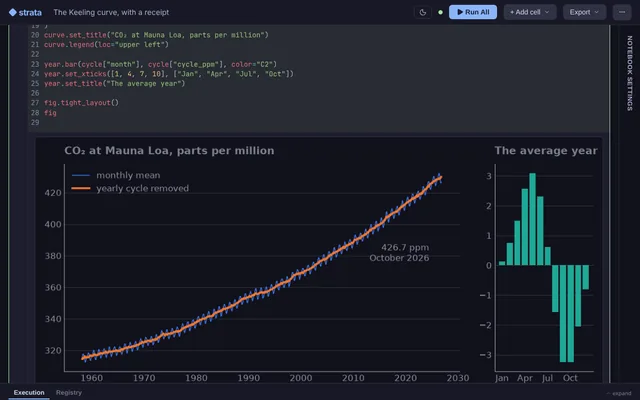
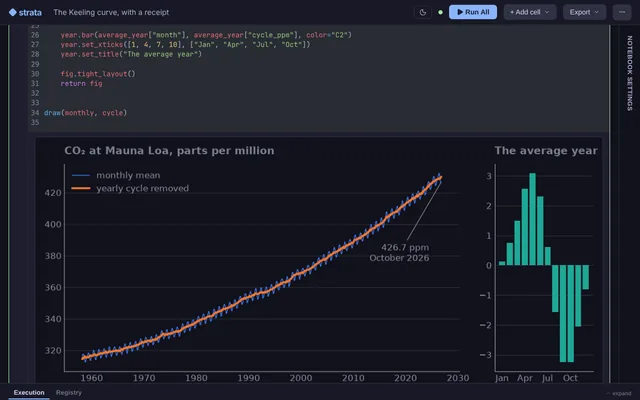
fix(examples): the Keeling receipt works in a sample copy, and review fixes
- The publish command named the example's own notebook id, but a sample copy
  gets a new one, so the command failed in every copy opened with strata
  tutorial or Open a sample. The cell now says the id is built from the
  notebook's notebook_id and where the folder is listed.
- The plot cell draws in a function, so the run stores only the figure and no
  longer warns that fig and its axes share objects.
- Growth per decade says how many years each decade holds (the 2020s has 6).
- NOAA rewrites the file about once a month; the cell no longer says early in
  the month, nor that a year joins in December.
- Alt text says the picture is the notebook; the CHANGELOG says second in the
  walkthroughs; docs/changelog.md mirrors the entry.

Claude-Session: https://claude.ai/code/session_0153tGTDWfzB9aBrCNiSAYQ5

Changed region(s): [[0.0625, 0.06, 0.5312, 0.3]]

diff --git a/examples/keeling_curve/cells/plot.py b/examples/keeling_curve/cells/plot.py
@@ -3,26 +3,32 @@ import matplotlib.pyplot as plt
 
 plt.style.use("strata")
 
-fig, (curve, year) = plt.subplots(
-    1, 2, figsize=(10, 4.5), gridspec_kw={"width_ratios": [4, 1]}
-)
 
-curve.plot(monthly["date"], monthly["co2_ppm"], linewidth=1, label="monthly mean")
-curve.plot(monthly["date"], monthly["trend_ppm"], linewidth=2.5, label="yearly cycle removed")
-latest = monthly.iloc[-1]
-curve.annotate(
-    f"{latest['co2_ppm']:.1f} ppm\n{latest['date']:%B %Y}",
-    (latest["date"], latest["co2_ppm"]),
-    xytext=(-15, -100),
-    textcoords="offset points",
-    ha="right",
-)
-curve.set_title("CO₂ at Mauna Loa, parts per million")
-curve.legend(loc="upper left")
+def draw(record, average_year):
+    fig, (curve, year) = plt.subplots(
+        1, 2, figsize=(10, 4.5), gridspec_kw={"width_ratios": [4, 1]}
+    )
 
-year.bar(cycle["month"], cycle["cycle_ppm"], color="C2")
-year.set_xticks([1, 4, 7, 10], ["Jan", "Apr", "Jul", "Oct"])
-year.set_title("The average year")
+    curve.plot(record["date"], record["co2_ppm"], linewidth=1, label="monthly mean")
+    curve.plot(record["date"], record["trend_ppm"], linewidth=2.5, label="yearly cycle removed")
+    latest = record.iloc[-1]
+    curve.annotate(
+        f"{latest['co2_ppm']:.1f} ppm\n{latest['date']:%B %Y}",
+        (latest["date"], latest["co2_ppm"]),
+        xytext=(-15, -100),
+        textcoords="offset points",
+        ha="right",
+        arrowprops={"arrowstyle": "-", "color": "0.6", "linewidth": 0.8},
+    )
+    curve.set_title("CO₂ at Mauna Loa, parts per million")
+    curve.legend(loc="upper left")
 
-fig.tight_layout()
-fig
+    year.bar(average_year["month"], average_year["cycle_ppm"], color="C2")
+    year.set_xticks([1, 4, 7, 10], ["Jan", "Apr", "Jul", "Oct"])
+    year.set_title("The average year")
+
+    fig.tight_layout()
+    return fig
+
+
+draw(monthly, cycle)

diff --git a/src/strata/notebook/samples/keeling_curve/cells/plot.py b/src/strata/notebook/samples/keeling_curve/cells/plot.py
@@ -3,26 +3,32 @@ import matplotlib.pyplot as plt
 
 plt.style.use("strata")
 
-fig, (curve, year) = plt.subplots(
-    1, 2, figsize=(10, 4.5), gridspec_kw={"width_ratios": [4, 1]}
-)
 
-curve.plot(monthly["date"], monthly["co2_ppm"], linewidth=1, label="monthly mean")
-curve.plot(monthly["date"], monthly["trend_ppm"], linewidth=2.5, label="yearly cycle removed")
-latest = monthly.iloc[-1]
-curve.annotate(
-    f"{latest['co2_ppm']:.1f} ppm\n{latest['date']:%B %Y}",
-    (latest["date"], latest["co2_ppm"]),
-    xytext=(-15, -100),
-    textcoords="offset points",
-    ha="right",
-)
-curve.set_title("CO₂ at Mauna Loa, parts per million")
-curve.legend(loc="upper left")
+def draw(record, average_year):
+    fig, (curve, year) = plt.subplots(
+        1, 2, figsize=(10, 4.5), gridspec_kw={"width_ratios": [4, 1]}
+    )
 
-year.bar(cycle["month"], cycle["cycle_ppm"], color="C2")
-year.set_xticks([1, 4, 7, 10], ["Jan", "Apr", "Jul", "Oct"])
-year.set_title("The average year")
+    curve.plot(record["date"], record["co2_ppm"], linewidth=1, label="monthly mean")
+    curve.plot(record["date"], record["trend_ppm"], linewidth=2.5, label="yearly cycle removed")
+    latest = record.iloc[-1]
+    curve.annotate(
+        f"{latest['co2_ppm']:.1f} ppm\n{latest['date']:%B %Y}",
+        (latest["date"], latest["co2_ppm"]),
+        xytext=(-15, -100),
+        textcoords="offset points",
+        ha="right",
+        arrowprops={"arrowstyle": "-", "color": "0.6", "linewidth": 0.8},
+    )
+    curve.set_title("CO₂ at Mauna Loa, parts per million")
+    curve.legend(loc="upper left")
 
-fig.tight_layout()
-fig
+    year.bar(average_year["month"], average_year["cycle_ppm"], color="C2")
+    year.set_xticks([1, 4, 7, 10], ["Jan", "Apr", "Jul", "Oct"])
+    year.set_title("The average year")
+
+    fig.tight_layout()
+    return fig
+
+
+draw(monthly, cycle)

diff --git a/examples/keeling_curve/cells/growth.py b/examples/keeling_curve/cells/growth.py
@@ -5,9 +5,8 @@ growth = (
     yearly.diff()
     .dropna()
     .groupby(lambda year: f"{year // 10 * 10}s")
-    .mean()
-    .round(2)
-    .rename("ppm_per_year")
+    .agg(ppm_per_year="mean", years="count")
+    .round({"ppm_per_year": 2})
     .rename_axis("decade")
     .reset_index()
 )

diff --git a/src/strata/notebook/samples/keeling_curve/cells/growth.py b/src/strata/notebook/samples/keeling_curve/cells/growth.py
@@ -5,9 +5,8 @@ growth = (
     yearly.diff()
     .dropna()
     .groupby(lambda year: f"{year // 10 * 10}s")
-    .mean()
-    .round(2)
-    .rename("ppm_per_year")
+    .agg(ppm_per_year="mean", years="count")
+    .round({"ppm_per_year": 2})
     .rename_axis("decade")
     .reset_index()
 )

diff --git a/examples/keeling_curve/cells/receipt.md b/examples/keeling_curve/cells/receipt.md
@@ -3,20 +3,25 @@
 Every result above is already stored with what produced it: the source of each cell,
 the environment it ran in, and, for the first cell, the URL it read with the digest of
 the bytes NOAA served and when they were downloaded. Publishing the figure makes that
-readable by anyone with the link. From this notebook's folder, with the server running:
+readable by anyone with the link.
+
+The figure's id is `nb_<notebook id>_cell_plot_var___display__0`, where the notebook id
+is the `notebook_id` on the first line of this notebook's `notebook.toml` (a copy of a
+sample gets its own). From the notebook's folder, which the home page lists under its
+title, with the server running:
 
 ```bash
-strata artifact publish nb_keeling-curve-001_cell_plot_var___display__0 \
+strata artifact publish nb_<notebook id>_cell_plot_var___display__0 \
   --title "The Keeling curve" --artifact-dir .strata/artifacts
 ```
 
 The page it prints shows the chart, this notebook's code for it and for every step
 behind it, and NOAA's file under **External inputs**.
 
-NOAA adds a month to the record early each month. When it does, the first cell turns
-stale on its own, because the bytes behind its URL changed, and so does everything
-after it. Run All again and the curve is a month longer; the figure you published keeps
-the data it was drawn from.
+NOAA rewrites the file about once a month, usually with a new month in it. When it does,
+the first cell turns stale on its own, because the bytes behind its URL changed, and so
+does everything after it. Run All again and the curve takes in the new month; the figure
+you published keeps the data it was drawn from.
 
 *Data: NOAA Global Monitoring Laboratory and Scripps Institution of Oceanography,
 monthly mean CO₂ at Mauna Loa (gml.noaa.gov/ccgg/trends). From December 2022 to

diff --git a/src/strata/notebook/samples/keeling_curve/cells/receipt.md b/src/strata/notebook/samples/keeling_curve/cells/receipt.md
@@ -3,20 +3,25 @@
 Every result above is already stored with what produced it: the source of each cell,
 the environment it ran in, and, for the first cell, the URL it read with the digest of
 the bytes NOAA served and when they were downloaded. Publishing the figure makes that
-readable by anyone with the link. From this notebook's folder, with the server running:
+readable by anyone with the link.
+
+The figure's id is `nb_<notebook id>_cell_plot_var___display__0`, where the notebook id
+is the `notebook_id` on the first line of this notebook's `notebook.toml` (a copy of a
+sample gets its own). From the notebook's folder, which the home page lists under its
+title, with the server running:
 
 ```bash
-strata artifact publish nb_keeling-curve-001_cell_plot_var___display__0 \
+strata artifact publish nb_<notebook id>_cell_plot_var___display__0 \
   --title "The Keeling curve" --artifact-dir .strata/artifacts
 ```
 
 The page it prints shows the chart, this notebook's code for it and for every step
 behind it, and NOAA's file under **External inputs**.
 
-NOAA adds a month to the record early each month. When it does, the first cell turns
-stale on its own, because the bytes behind its URL changed, and so does everything
-after it. Run All again and the curve is a month longer; the figure you published keeps
-the data it was drawn from.
+NOAA rewrites the file about once a month, usually with a new month in it. When it does,
+the first cell turns stale on its own, because the bytes behind its URL changed, and so
+does everything after it. Run All again and the curve takes in the new month; the figure
+you published keeps the data it was drawn from.
 
 *Data: NOAA Global Monitoring Laboratory and Scripps Institution of Oceanography,
 monthly mean CO₂ at Mauna Loa (gml.noaa.gov/ccgg/trends). From December 2022 to

diff --git a/docs/notebook/examples.md b/docs/notebook/examples.md
@@ -28,7 +28,7 @@ want under your storage root instead:
     cache saves and what an edit runs again. `strata tutorial caching` opens
     a copy.
 
--   [![The Keeling curve: CO₂ at Mauna Loa rising from 315 to over 420 ppm since 1958, beside the average year's cycle.](../assets/examples/keeling_curve-light.webp#only-light)![The Keeling curve: CO₂ at Mauna Loa rising from 315 to over 420 ppm since 1958, beside the average year's cycle.](../assets/examples/keeling_curve-dark.webp#only-dark)](../examples/keeling_curve.md)
+-   [![The Keeling curve notebook: the plotting cell's code above CO₂ at Mauna Loa rising from about 315 to 430 ppm since 1958, beside the average year's cycle.](../assets/examples/keeling_curve-light.webp#only-light)![The Keeling curve notebook: the plotting cell's code above CO₂ at Mauna Loa rising from about 315 to 430 ppm since 1958, beside the average year's cycle.](../assets/examples/keeling_curve-dark.webp#only-dark)](../examples/keeling_curve.md)
 
     **[keeling_curve](../examples/keeling_curve.md)**: NOAA's Mauna Loa
     record, downloaded with `# @fetch`, the curve and its yearly cycle, then a

diff --git a/README.md b/README.md
@@ -134,7 +134,7 @@ machine. [How Strata compares →](https://bearingresearch.com/strata/latest/not
 <td width="33%" valign="top">
 <a href="https://bearingresearch.com/strata/latest/examples/keeling_curve/"><picture>
 <source media="(prefers-color-scheme: dark)" srcset="https://raw.githubusercontent.com/bearing-research/strata/main/docs/assets/examples/keeling_curve-dark.webp">
-<img alt="CO₂ at Mauna Loa rising from 315 to over 420 ppm since 1958, beside the average year's cycle." src="https://raw.githubusercontent.com/bearing-research/strata/main/docs/assets/examples/keeling_curve-light.webp">
+<img alt="The Keeling curve notebook: the plotting cell's code above CO₂ at Mauna Loa rising from about 315 to 430 ppm since 1958, beside the average year's cycle." src="https://raw.githubusercontent.com/bearing-research/strata/main/docs/assets/examples/keeling_curve-light.webp">
 </picture></a>
 <br><b><a href="https://bearingresearch.com/strata/latest/examples/keeling_curve/">keeling_curve</a></b><br>NOAA's CO₂ record, and a published figure that shows its sources
 </td>

diff --git a/docs/changelog.md b/docs/changelog.md
@@ -17,6 +17,11 @@ The authoritative copy of this file lives at [`CHANGELOG.md`](https://github.com
   it imports pyplot; nothing is applied unless the cell asks. The examples that plot use
   it. A cached figure keeps the look it was drawn with, since the style is not part of a
   cell's key.
+- **A new sample: the Keeling curve, with a receipt.** NOAA's monthly CO₂ record from
+  Mauna Loa, read with `# @fetch`, its yearly cycle and growth by decade, and a figure
+  published with `strata artifact publish` whose page lists the code of every step and
+  NOAA's file with its digest. `strata tutorial keeling_curve` opens a copy; it is also
+  in the README, and second in the docs gallery's walkthroughs, after `caching`.
 - **Artifacts in a notebook lists that notebook's store.** The link opened the server's
   store, which holds none of a notebook's results; its page now lists them by cell and
   output, through `GET /v1/notebooks/{session_id}/store/artifacts` and `.../store/stats`.

diff --git a/CHANGELOG.md b/CHANGELOG.md
@@ -19,7 +19,7 @@ exhaustive commit history.
   Mauna Loa, read with `# @fetch`, its yearly cycle and growth by decade, and a figure
   published with `strata artifact publish` whose page lists the code of every step and
   NOAA's file with its digest. `strata tutorial keeling_curve` opens a copy; it is also
-  in the README and first in the docs gallery's walkthroughs after `caching`.
+  in the README, and second in the docs gallery's walkthroughs, after `caching`.
 - **Artifacts in a notebook lists that notebook's store.** The link opened the server's
   store, which holds none of a notebook's results; its page now lists them by cell and
   output, through `GET /v1/notebooks/{session_id}/store/artifacts` and `.../store/stats`.

diff --git a/examples/keeling_curve/cells/about_growth.md b/examples/keeling_curve/cells/about_growth.md
@@ -2,4 +2,5 @@
 
 The yearly mean, compared with the year before, gives the growth rate in parts per
 million per year. Averaged by decade, it shows whether the rise is steady or speeding up.
-Only complete years count, so the current year waits until December.
+Only complete years count, so a year joins once NOAA publishes its December, and the
+`years` column says how many each decade has so far.

diff --git a/src/strata/notebook/samples/keeling_curve/cells/about_growth.md b/src/strata/notebook/samples/keeling_curve/cells/about_growth.md
@@ -2,4 +2,5 @@
 
 The yearly mean, compared with the year before, gives the growth rate in parts per
 million per year. Averaged by decade, it shows whether the rise is steady or speeding up.
-Only complete years count, so the current year waits until December.
+Only complete years count, so a year joins once NOAA publishes its December, and the
+`years` column says how many each decade has so far.
